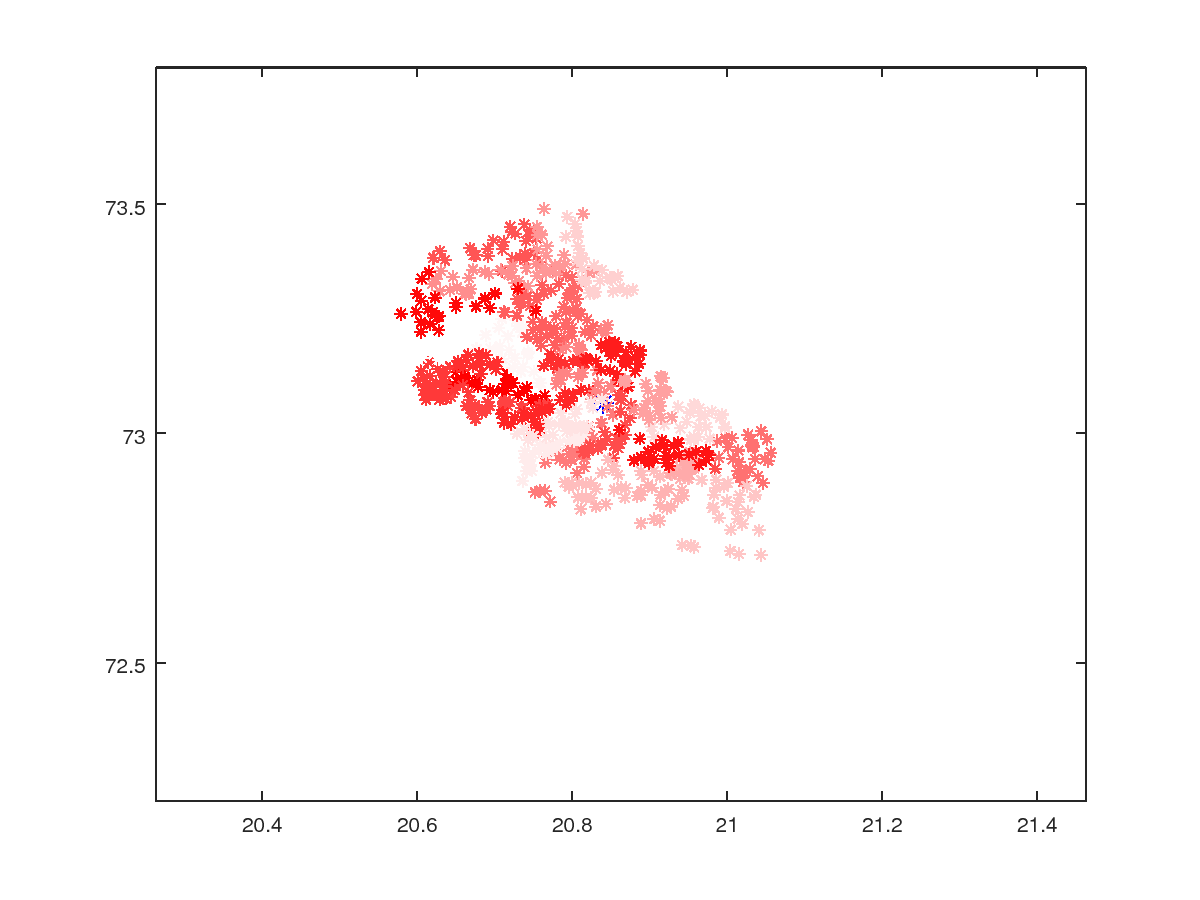
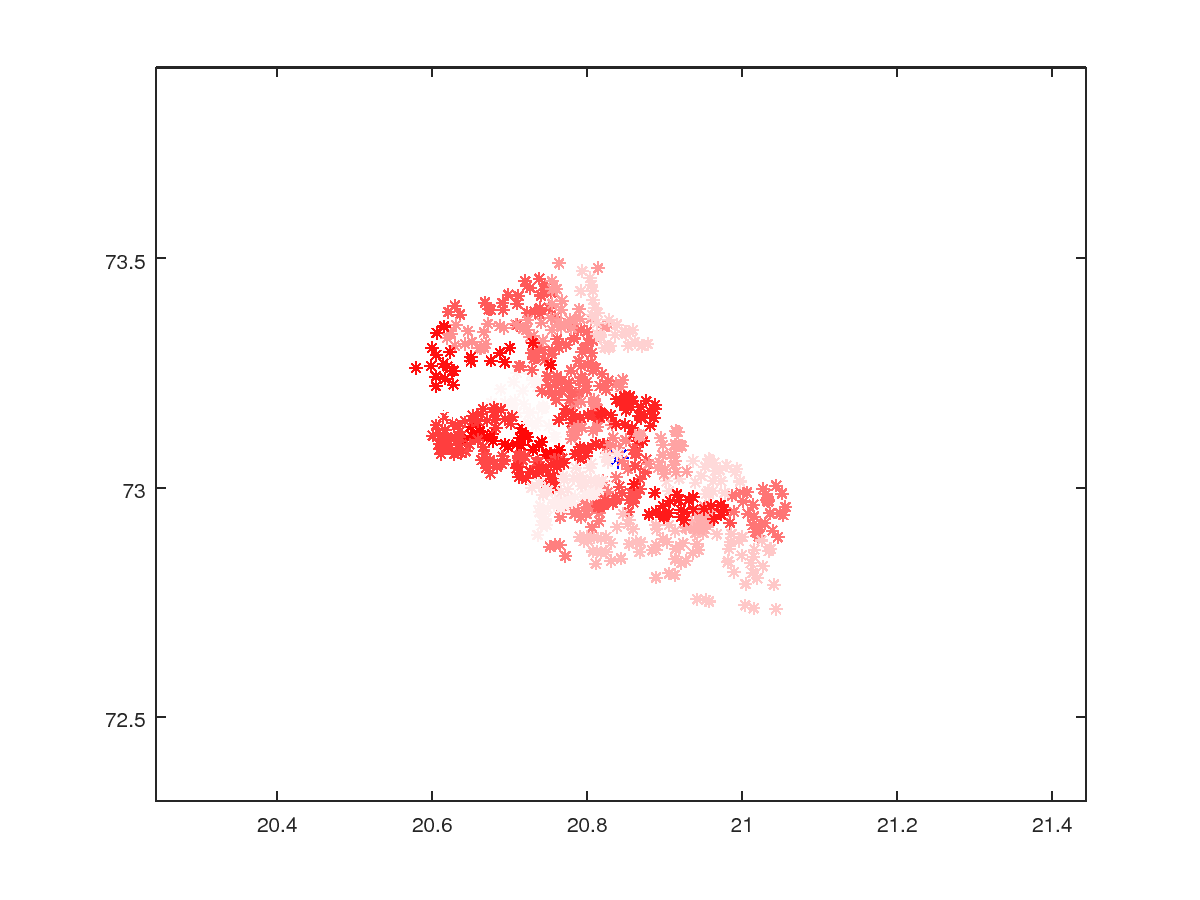
Update

diff --git a/visualize_time.m b/visualize_time.m
@@ -8,10 +8,11 @@ KITCHEN_X = [20.840249];
 KITCHEN_Y = [73.065424];
 
 %% COLORS
-length = length(time_routes);
+length = length(time_routes)*5;
 red = [1, 0, 0];
 white = [1, 1, 1];
 colors = [linspace(white(1), red(1), length)', linspace(white(2), red(2), length)', linspace(white(3), red(3), length)'];
+colors = colors(1:5:end, :);
 %% PLOT
 plot(KITCHEN_X, KITCHEN_Y, 'Color', 'b', 'Marker', '*', 'MarkerSize', 10);
 hold on
